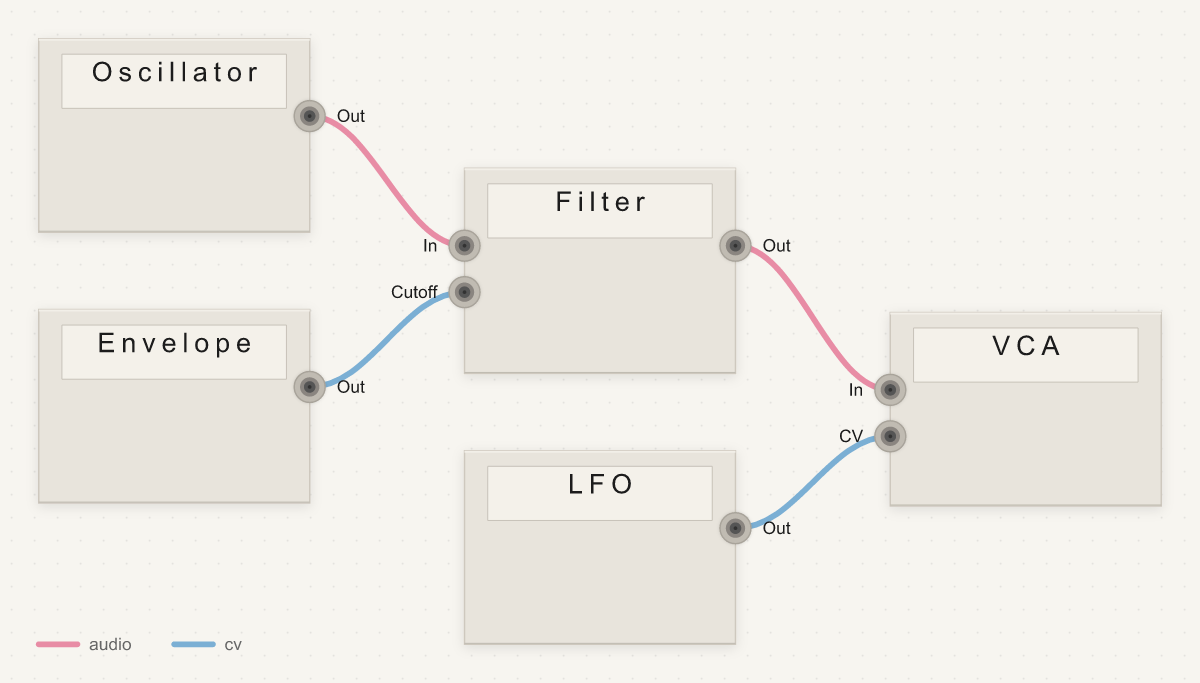
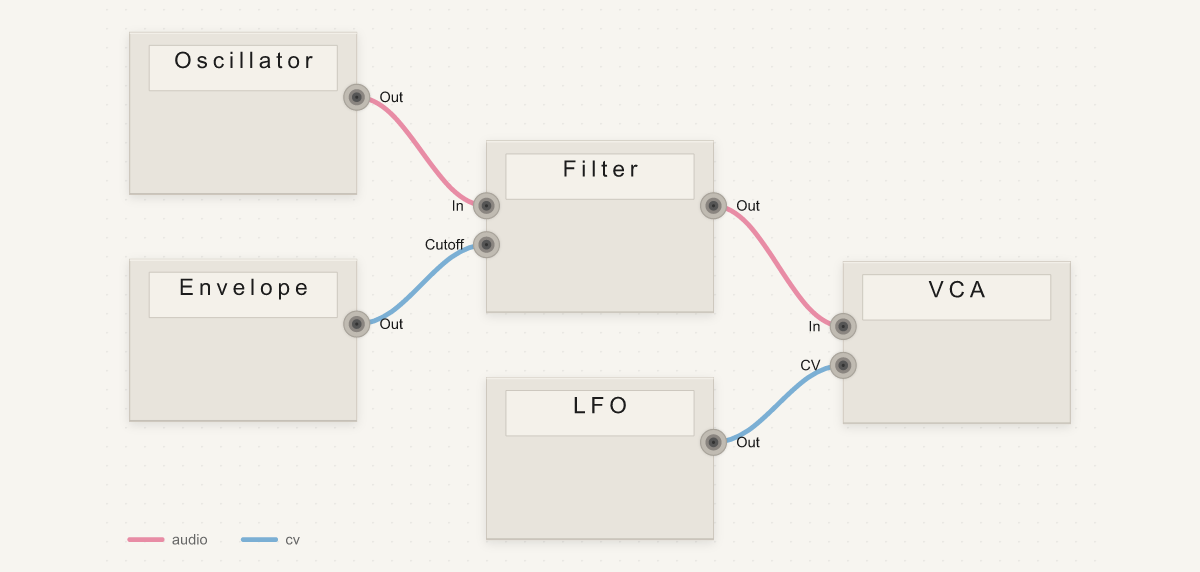
fix: annotation positioning, viewBox padding, feedback arc space, param key deduplication

diff --git a/src/renderer.ts b/src/renderer.ts
@@ -119,11 +119,15 @@ function buildParams(blocks: LayoutBlock[]): string {
     const pw = block.width - 24;
     const px = block.x + 12;
     let py = block.y + 40;
+    const blockLabelNorm = block.label.trim().toLowerCase();
     for (const param of block.params) {
       parts.push(
         `<rect x="${px}" y="${py}" width="${pw}" height="20" fill="#f0ede6" stroke="#d5d0c6" stroke-width="0.5"/>`,
       );
-      const text = `${sanitizeForSvg(param.key)}: ${sanitizeForSvg(param.value)}`;
+      const keyNorm = param.key.trim().toLowerCase();
+      const text = keyNorm === blockLabelNorm
+        ? sanitizeForSvg(param.value)
+        : `${sanitizeForSvg(param.key)}: ${sanitizeForSvg(param.value)}`;
       parts.push(
         `<text x="${px + pw / 2}" y="${py + 14}" text-anchor="middle" ` +
         `font-family="${monoFont}" font-size="10" fill="#555">${text}</text>`,
@@ -183,16 +187,49 @@ function buildLabels(theme: Theme, blocks: LayoutBlock[]): string {
 function buildAnnotations(theme: Theme, connections: LayoutConnection[]): string {
   const parts: string[] = [];
   const fontFamily = sanitizeForSvg(theme.annotation.fontFamily);
+  const fontSize = theme.annotation.fontSize;
+  // Approximate character width for truncation (in pixels, for the annotation font size)
+  const charWidth = fontSize * 0.55;
 
   for (const conn of connections) {
     if (!conn.annotation) continue;
-    const midX = (conn.sourcePoint.x + conn.targetPoint.x) / 2;
-    const midY = (conn.sourcePoint.y + conn.targetPoint.y) / 2;
+    const sx = conn.sourcePoint.x;
+    const sy = conn.sourcePoint.y;
+    const tx = conn.targetPoint.x;
+    const ty = conn.targetPoint.y;
+
+    let x: number;
+    let y: number;
+
+    if (conn.isFeedback) {
+      // Feedback arcs dip below the diagram — place annotation near the arc's low point.
+      x = (sx + tx) / 2;
+      y = Math.max(sy, ty) + 30;
+    } else {
+      // Forward connections: position annotation ABOVE the midpoint
+      // so it doesn't overlap sockets / port labels on short connections.
+      x = (sx + tx) / 2;
+      y = (sy + ty) / 2 - 14;
+    }
+
     const prefix = conn.isFeedback ? '↻ ' : '';
-    const text = prefix + sanitizeForSvg(conn.annotation);
+    let raw = conn.annotation;
+
+    // Truncate text that would be longer than the horizontal distance between
+    // source and target (avoids overflowing into adjacent sockets/labels).
+    if (!conn.isFeedback) {
+      const available = Math.abs(tx - sx);
+      const prefixWidth = prefix.length * charWidth;
+      const maxChars = Math.max(0, Math.floor((available - prefixWidth) / charWidth));
+      if (maxChars > 0 && raw.length > maxChars) {
+        raw = maxChars > 1 ? raw.slice(0, maxChars - 1) + '…' : raw.slice(0, maxChars);
+      }
+    }
+
+    const text = prefix + sanitizeForSvg(raw);
     parts.push(
-      `<text x="${midX}" y="${midY}" text-anchor="middle" ` +
-      `font-family="${fontFamily}" font-size="${theme.annotation.fontSize}" ` +
+      `<text x="${x}" y="${y}" text-anchor="middle" ` +
+      `font-family="${fontFamily}" font-size="${fontSize}" ` +
       `fill="${theme.annotation.color}" ` +
       `paint-order="stroke fill" stroke="#f7f5f0" stroke-width="3" stroke-linejoin="round">${text}</text>`,
     );
@@ -271,9 +308,13 @@ export function renderSvg(layoutResult: LayoutResult, theme: Theme): string {
   const style =
     `<style>@media print { .pf-panel, .pf-jack { filter: none; } }</style>`;
 
+  // Extend the viewBox horizontally so port labels ("Fall CV", etc.) on the
+  // leftmost and rightmost blocks don't get clipped outside the SVG.
+  const labelPadX = 60;
+  const vbWidth = width + labelPadX * 2;
   const svg =
-    `<svg xmlns="http://www.w3.org/2000/svg" viewBox="0 0 ${width} ${height}" width="100%" ` +
-    `data-pf-min-width="${minWidth}" role="img" aria-labelledby="${idPrefix}-title ${idPrefix}-desc">` +
+    `<svg xmlns="http://www.w3.org/2000/svg" viewBox="${-labelPadX} 0 ${vbWidth} ${height}" width="100%" ` +
+    `data-pf-min-width="${minWidth + labelPadX * 2}" role="img" aria-labelledby="${idPrefix}-title ${idPrefix}-desc">` +
     `<title id="${idPrefix}-title">Patch diagram</title>` +
     `<desc id="${idPrefix}-desc">${desc}</desc>` +
     style +

diff --git a/src/layout.ts b/src/layout.ts
@@ -288,7 +288,12 @@ export function layout(graph: PatchGraph, options: LayoutOptions = {}): LayoutRe
 
   // Overall dimensions
   const margin = 20;
-  const feedbackSpace = hasFeedback ? feedbackArcOffset + 30 : 0;
+  // Feedback arcs drop to diagramBottom + feedbackArcOffset and carry an
+  // annotation below them, so reserve enough room for the arc + the
+  // annotation line + its text stroke padding.
+  const feedbackSpace = hasFeedback
+    ? (diagramBottom - maxY) + feedbackArcOffset + 30 + 16
+    : 0;
   const width = maxX + margin;
   const height = maxY + margin + feedbackSpace;
 
